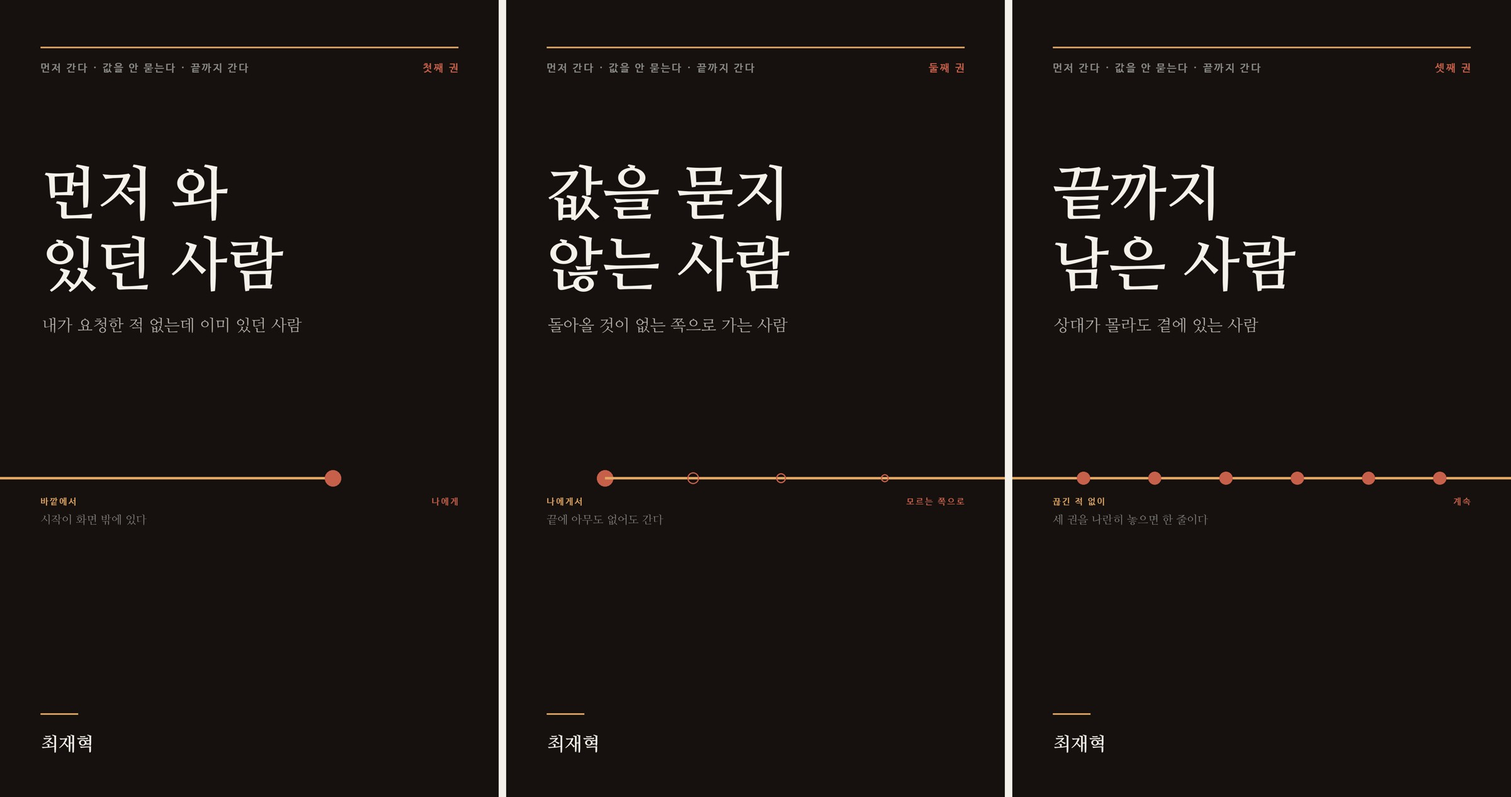
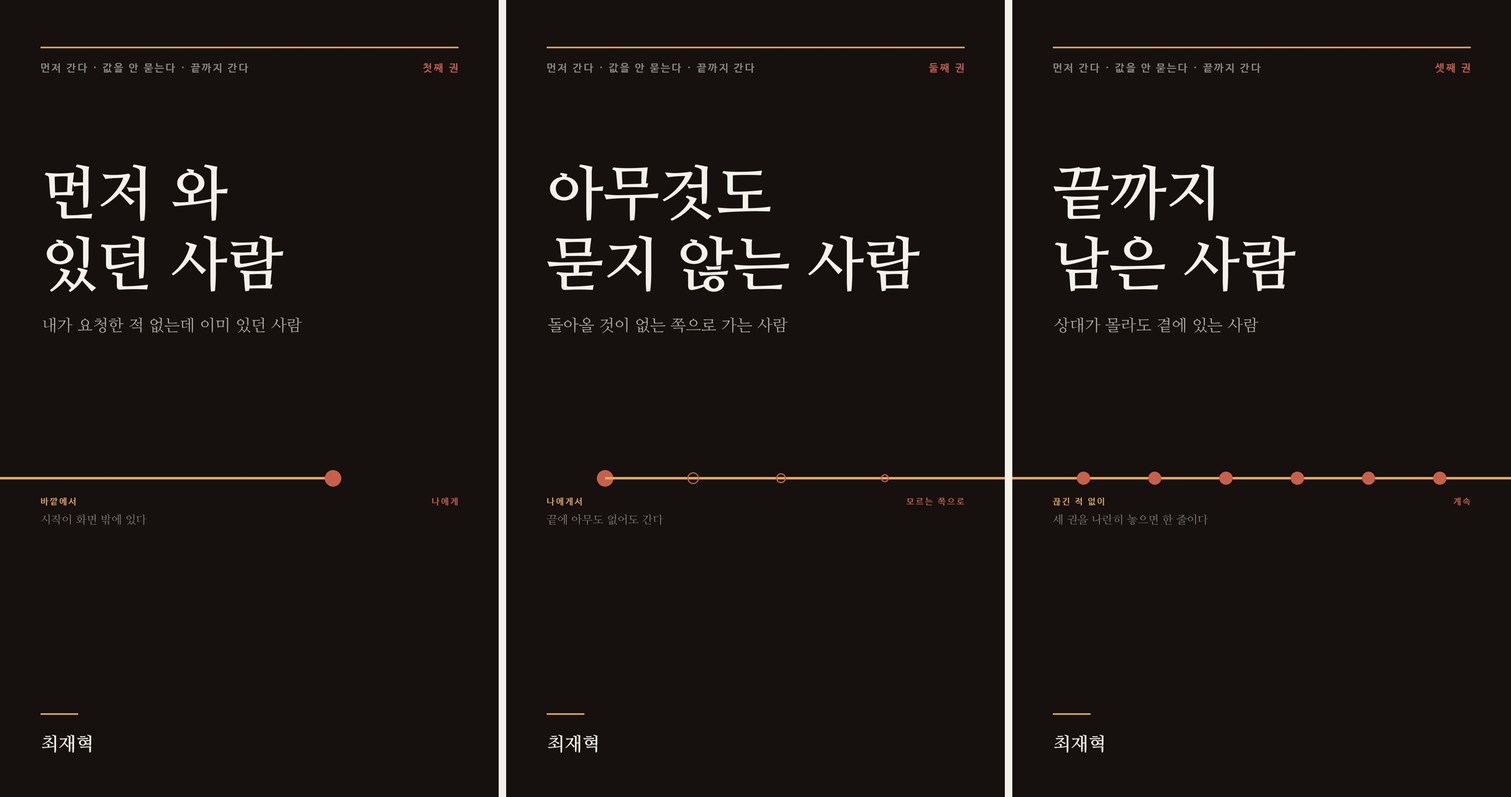
2권 제목을 『아무것도 묻지 않는 사람』으로
작가가 고쳤다. 내가 『값을 묻지 않는 사람』으로 냈는데 바꾸고 나니
작가가 맞았다.

「값을」은 또렷한 대신 셈 쪽으로 당긴다. 그런데 둘째 권이 안 묻는 것은
값만이 아니다. 3장이 자격을 안 묻는 장이고 9장이 고마움이 안 돌아오는
장인데 둘 다 값이 아니다. 「아무것도」가 그 셋을 다 덮는다.

셈이 빠진 자리는 부제가 받는다 — 「돌아올 것이 없는 쪽으로 가는 사람」.
제목이 따뜻하고 부제가 또렷하면 된다. 그걸 제목 하나에 다 넣으려던
것이 내 쪽의 욕심이었다.

영어는 The One Who Never Asked 그대로다. asked 뒤에 아무것도 안 붙어
있어서 바뀐 한국어에 오히려 더 맞는다.

제목이 길어져서 표지 제목 줄이 두 줄 그대로인 대신 글자가 조금 작다.
줄바꿈을 「아무것도 / 묻지 않는 사람」으로 두었다. 뜻이 끊기는 자리가
거기라서 그렇게 했다.

tools/love2.py · cover.py · 표제지 · 일러두기 셋을 고치고 표지와
PDF 를 다시 뽑았다. 쪽수는 68쪽 그대로다.

Claude-Session: https://claude.ai/code/session_01MUgqiyz8UZfaxXbyWGHTUz

Changed region(s): [[0.3438, 0.1847, 0.625, 0.3694]]

diff --git a/사랑책-제목.html b/사랑책-제목.html
@@ -31,7 +31,7 @@ hr{border:0;border-top:1px solid var(--rule);margin:2.5em 0}
 <h1>붙인 제목</h1>
 <blockquote><h2>『떠오르는 사람』</h2>
 <h3>세 권</h3></blockquote>
-<div class="table-wrap"><table><thead><tr><th>권</th><th>한국어</th><th>영어</th><th>부제</th></tr></thead><tbody><tr><td><strong>1</strong></td><td><strong>『먼저 와 있던 사람』</strong></td><td><code>The One Who Was Already There</code></td><td>내가 요청한 적 없는데 이미 있던 사람</td></tr><tr><td><strong>2</strong></td><td><strong>『값을 묻지 않는 사람』</strong></td><td><code>The One Who Never Asked</code></td><td>돌아올 것이 없는 쪽으로 가는 사람</td></tr><tr><td><strong>3</strong></td><td><strong>『끝까지 남은 사람』</strong></td><td><code>The One Who Stayed</code></td><td>상대가 몰라도 곁에 있는 사람</td></tr></tbody></table></div>
+<div class="table-wrap"><table><thead><tr><th>권</th><th>한국어</th><th>영어</th><th>부제</th></tr></thead><tbody><tr><td><strong>1</strong></td><td><strong>『먼저 와 있던 사람』</strong></td><td><code>The One Who Was Already There</code></td><td>내가 요청한 적 없는데 이미 있던 사람</td></tr><tr><td><strong>2</strong></td><td><strong>『아무것도 묻지 않는 사람』</strong></td><td><code>The One Who Never Asked</code></td><td>돌아올 것이 없는 쪽으로 가는 사람</td></tr><tr><td><strong>3</strong></td><td><strong>『끝까지 남은 사람』</strong></td><td><code>The One Who Stayed</code></td><td>상대가 몰라도 곁에 있는 사람</td></tr></tbody></table></div>
 <p><strong>표지를 다시 그렸습니다.</strong> <code>release/covers/love-세권-나란히.jpg</code> 입니다.</p>
 <hr>
 <h1>왜 「것」을 「사람」으로 바꿨는지</h1>
@@ -47,7 +47,7 @@ hr{border:0;border-top:1px solid var(--rule);margin:2.5em 0}
 <p>그래서 <strong>처음 보면 따뜻하고, 세 권을 다 읽고 나면 다르게 읽힙니다.</strong> 1권은 어머니가 떠오르는 제목이고, 3권까지 읽고 돌아오면 <strong>「그 사람은 어떻게 나보다 먼저 와 있었나」</strong>가 됩니다. 제목이 그때 한 번 더 돌아섭니다. 그게 3권 12장이 하는 일입니다.</p>
 <hr>
 <h1>영어 제목</h1>
-<div class="table-wrap"><table><thead><tr><th>권</th><th>영어</th><th>왜</th></tr></thead><tbody><tr><td>1</td><td><code>The One Who Was Already There</code></td><td>「있던 것」보다 「있던 이」. 한국어와 같은 자리</td></tr><tr><td>2</td><td><code>The One Who Never Asked</code></td><td>「값을」을 뺐습니다. 안 묻는 것이 값만은 아닙니다</td></tr><tr><td>3</td><td><code>The One Who Stayed</code></td><td>짧습니다. 영어에서 <code>stayed</code> 한 낱말이 이 권 전부입니다</td></tr></tbody></table></div>
+<div class="table-wrap"><table><thead><tr><th>권</th><th>영어</th><th>왜</th></tr></thead><tbody><tr><td>1</td><td><code>The One Who Was Already There</code></td><td>「있던 것」보다 「있던 이」. 한국어와 같은 자리</td></tr><tr><td>2</td><td><code>The One Who Never Asked</code></td><td><code>asked</code> 뒤에 아무것도 안 붙습니다. 한국어의 「아무것도」와 같은 자리</td></tr><tr><td>3</td><td><code>The One Who Stayed</code></td><td>짧습니다. 영어에서 <code>stayed</code> 한 낱말이 이 권 전부입니다</td></tr></tbody></table></div>
 <p><strong>전에 걱정한 자리는 피했습니다.</strong> 3권 후보였던 <code>The One That Does Not Stop</code> 이 「사랑은 언제까지나 떨어지지 아니하며」와 너무 가까웠습니다. 그 구절을 아는 독자에게는 간판이 되고, 모르는 독자에게는 밍밍합니다. <code>The One Who Stayed</code> 는 양쪽 다 피합니다.</p>
 <p>시리즈 영어 이름은 <code>Someone Comes to Mind</code> 입니다.</p>
 <hr>
@@ -63,6 +63,9 @@ hr{border:0;border-top:1px solid var(--rule);margin:2.5em 0}
 <h2>넷 · 바꾸시려면 지금입니다</h2>
 <p><strong>KDP 는 발행한 뒤에 제목을 못 바꿉니다.</strong> 11·12번 때 적어 둔 그대로입니다. 지금은 한 줄만 고치면 되고, 발행 뒤에는 책을 다시 내는 수밖에 없습니다.</p>
 <p>마음에 안 드시면 말씀해 주세요. 아래가 제가 재다가 안 고른 쪽들입니다.</p>
-<div class="table-wrap"><table><thead><tr><th>권</th><th>안 고른 후보</th><th>왜 안 골랐나</th></tr></thead><tbody><tr><td>1</td><td>『내가 오기 전에』</td><td>예쁜데 무슨 책인지 안 보입니다</td></tr><tr><td>1</td><td>『업히던 때』</td><td>따뜻한데 6장 한 장의 제목이 됩니다</td></tr><tr><td>2</td><td>『아무것도 묻지 않는 사람』</td><td><strong>이쪽이 더 따뜻합니다.</strong> 다만 「값을」이 빠지면 2권이 무엇을 보는 책인지 흐려집니다</td></tr><tr><td>2</td><td>『그냥 주는 사람』</td><td>가볍습니다. 둘째 권은 아픈 장이 둘인 책입니다</td></tr><tr><td>3</td><td>『끝까지 가는 것』</td><td>전에 쓰던 것. 사람이 안 보입니다</td></tr><tr><td>3</td><td>『마지막까지 앉아 있던 사람』</td><td>좋은데 깁니다. 책등에 안 들어갑니다</td></tr></tbody></table></div>
-<p><strong>2권만은 한 번 더 보셔도 좋겠습니다.</strong> 『값을 묻지 않는 사람』과 『아무것도 묻지 않는 사람』 사이입니다. 앞은 또렷하고 뒤는 따뜻합니다. 저는 또렷한 쪽으로 골랐는데, 작가님이 따뜻한 쪽을 원하시면 <strong>한 줄만 고치면 됩니다.</strong></p>
+<div class="table-wrap"><table><thead><tr><th>권</th><th>안 고른 후보</th><th>왜 안 골랐나</th></tr></thead><tbody><tr><td>1</td><td>『내가 오기 전에』</td><td>예쁜데 무슨 책인지 안 보입니다</td></tr><tr><td>1</td><td>『업히던 때』</td><td>따뜻한데 6장 한 장의 제목이 됩니다</td></tr><tr><td>2</td><td>『값을 묻지 않는 사람』</td><td>또렷한데 「값」이 셈 이야기로 당깁니다. 작가님이 따뜻한 쪽을 고르셨습니다</td></tr><tr><td>2</td><td>『그냥 주는 사람』</td><td>가볍습니다. 둘째 권은 아픈 장이 둘인 책입니다</td></tr><tr><td>3</td><td>『끝까지 가는 것』</td><td>전에 쓰던 것. 사람이 안 보입니다</td></tr><tr><td>3</td><td>『마지막까지 앉아 있던 사람』</td><td>좋은데 깁니다. 책등에 안 들어갑니다</td></tr></tbody></table></div>
+<p><strong>2권은 작가님이 고치셨습니다.</strong> 제가 『값을 묻지 않는 사람』으로 냈는데 『아무것도 묻지 않는 사람』으로 바꾸라고 하셨고, 바꾸고 나니 작가님이 맞으셨습니다.</p>
+<p>「값을」은 또렷한 대신 <strong>셈 쪽으로 당깁니다.</strong> 그런데 둘째 권이 안 묻는 것은 값만이 아닙니다. 자격을 안 묻고, 어디서 왔는지를 안 묻고, 왜 그렇게 됐는지를 안 묻습니다. 3장이 자격 이야기고 9장이 고마움 이야기인데 둘 다 값이 아닙니다. <strong>「아무것도」가 그 셋을 다 덮습니다.</strong></p>
+<p>그리고 셈이 빠진 자리를 부제가 받습니다 — 「돌아올 것이 없는 쪽으로 가는 사람」. 제목이 따뜻하고 부제가 또렷하면 됩니다. 제가 그걸 제목 하나에 다 넣으려고 했던 것입니다.</p>
+<p>영어는 <code>The One Who Never Asked</code> 그대로입니다. 바뀐 한국어 쪽에 오히려 더 맞습니다 — <code>asked</code> 뒤에 아무것도 안 붙어 있습니다.</p>
 </div></body></html>

diff --git a/사랑책-기획.html b/사랑책-기획.html
@@ -32,7 +32,7 @@ hr{border:0;border-top:1px solid var(--rule);margin:2.5em 0}
 <p>한 권에 3부로 잡았던 것을 <strong>세 권으로 나눕니다.</strong> 작가님 말씀이 맞습니다. 한 권으로 묶으면 세 가지가 한 권 안에서 서로 자리를 뺏습니다.</p>
 <blockquote><h2>『먼저 와 있던 사람』 세 권</h2>
 <h3>가슴이 따뜻해지는 사랑에 대한 세 권</h3></blockquote>
-<div class="table-wrap"><table><thead><tr><th>권</th><th>제목</th><th>그 사랑의 성질</th><th>번호</th></tr></thead><tbody><tr><td><strong>1</strong></td><td><strong>『먼저 와 있던 사람』</strong> / <code>What Was Already There</code></td><td><strong>먼저 간다</strong></td><td>13·14</td></tr><tr><td><strong>2</strong></td><td><strong>『값을 묻지 않는 사람』</strong> / <code>Without Asking the Price</code></td><td><strong>자격을 안 따진다</strong></td><td>15·16</td></tr><tr><td><strong>3</strong></td><td><strong>『끝까지 남은 사람』</strong> / <code>The One That Does Not Stop</code></td><td><strong>안 끝난다</strong></td><td>17·18</td></tr></tbody></table></div>
+<div class="table-wrap"><table><thead><tr><th>권</th><th>제목</th><th>그 사랑의 성질</th><th>번호</th></tr></thead><tbody><tr><td><strong>1</strong></td><td><strong>『먼저 와 있던 사람』</strong> / <code>What Was Already There</code></td><td><strong>먼저 간다</strong></td><td>13·14</td></tr><tr><td><strong>2</strong></td><td><strong>『아무것도 묻지 않는 사람』</strong> / <code>Without Asking the Price</code></td><td><strong>자격을 안 따진다</strong></td><td>15·16</td></tr><tr><td><strong>3</strong></td><td><strong>『끝까지 남은 사람』</strong> / <code>The One That Does Not Stop</code></td><td><strong>안 끝난다</strong></td><td>17·18</td></tr></tbody></table></div>
 <p><strong>세 권을 다 내면 작가님 책이 열여덟 권이 됩니다.</strong></p>
 <hr>
 <h1>제일 중요한 규칙 — 세 권 내내 샘을 안 비칩니다</h1>
@@ -62,7 +62,7 @@ God · Jesus · Christ · Bible · church · faith · grace · agape</code></pre
 <div class="table-wrap"><table><thead><tr><th>장</th><th>제목</th></tr></thead><tbody><tr><td>1</td><td>아무도 나에게 묻지 않았다 — 태어나는 일에 동의한 사람은 없다</td></tr><tr><td>2</td><td>기억 안 나는 것이 제일 많다 — 받은 사랑의 대부분이 기억에 없다</td></tr><tr><td>3</td><td>이름은 받기 전에 지어진다</td></tr><tr><td>4</td><td>미리 사 둔 것들 — 아직 오지도 않은 사람의 옷과 자리</td></tr><tr><td>5</td><td>젖은 거래가 아니다 — 처음 받은 것에는 값이 안 붙어 있었다</td></tr><tr><td>6</td><td>업혔던 등 — 내가 못 고른 사람이 나를 날랐다</td></tr><tr><td>7</td><td>가르친 사람은 기억 못 한다 — 말을 가르쳐 준 그 수천 번</td></tr><tr><td>8</td><td>먼저 와서 기다린 자리</td></tr><tr><td>9</td><td>받은 줄 모르고 받는다 — 공기처럼</td></tr><tr><td>10</td><td>갚을 수 없는 자리 — 부모에게 갚는 사람은 없다</td></tr><tr><td>11</td><td>그러면 어디로 가나 — 받은 것은 옆으로 간다</td></tr><tr><td>12</td><td><strong>나는 받고 시작했다</strong></td></tr></tbody></table></div>
 <p><strong>12장이 2권을 엽니다.</strong> 갚을 수 없는 것을 받은 사람은 옆으로 갑니다.</p>
 <hr>
-<h1>2권 · 『값을 묻지 않는 사람』 — 자격을 안 따진다</h1>
+<h1>2권 · 『아무것도 묻지 않는 사람』 — 자격을 안 따진다</h1>
 <blockquote><p>돌아올 것이 없는 쪽으로 가는 것.</p></blockquote>
 <div class="table-wrap"><table><thead><tr><th>장</th><th>제목</th></tr></thead><tbody><tr><td>1</td><td>조건이 붙으면 거래가 된다 — 「잘하면」의 냄새를 아이들이 먼저 안다</td></tr><tr><td>2</td><td>못난 쪽을 더 오래 본다 — <strong>아픈 장</strong></td></tr><tr><td>3</td><td>자격을 따지기 시작하면 — 줄이 생긴다</td></tr><tr><td>4</td><td>다시 볼 일 없는 사람에게 — 헌혈 · 기증 · 구조</td></tr><tr><td>5</td><td>이름을 안 밝히는 쪽</td></tr><tr><td>6</td><td>받을 것을 안 받기로 한다 — 용서라는 이상한 셈</td></tr><tr><td>7</td><td>손해를 보고도 — 셈이 안 맞는데 계속하는 자리</td></tr><tr><td>8</td><td>내 것을 떼어 준다 — 시간과 잠과 자리</td></tr><tr><td>9</td><td>고마워하지 않는 사람에게 — <strong>아픈 장</strong></td></tr><tr><td>10</td><td>먹이는 일 — 제일 오래된 주는 법</td></tr><tr><td>11</td><td>값을 물으면 끊긴다</td></tr><tr><td>12</td><td><strong>그래도 준다</strong></td></tr></tbody></table></div>
 <hr>
@@ -103,7 +103,7 @@ God · Jesus · Christ · Bible · church · faith · grace · agape</code></pre
 <p><strong>1번부터 할까요, 5번(표지)부터 볼까요.</strong> 세 권이 한 선반에서 어떻게 보이는지 먼저 보시는 것도 괜찮습니다.</p>
 <hr>
 <h1>세 권을 다 썼습니다 (10월 8일)</h1>
-<div class="table-wrap"><table><thead><tr><th>권</th><th>장</th><th>분량</th><th>쪽(6x9)</th><th>비운 자리</th><th>문체 검사</th></tr></thead><tbody><tr><td>1 『먼저 와 있던 사람』</td><td>12</td><td>21,850자</td><td><strong>67쪽</strong></td><td>5</td><td>여섯 줄 다 <code>OK</code></td></tr><tr><td>2 『값을 묻지 않는 사람』</td><td>12</td><td>22,378자</td><td><strong>68쪽</strong></td><td>2</td><td>여섯 줄 다 <code>OK</code></td></tr><tr><td>3 『끝까지 남은 사람』</td><td>12</td><td>23,454자</td><td><strong>71쪽</strong></td><td>4</td><td>여섯 줄 다 <code>OK</code></td></tr></tbody></table></div>
+<div class="table-wrap"><table><thead><tr><th>권</th><th>장</th><th>분량</th><th>쪽(6x9)</th><th>비운 자리</th><th>문체 검사</th></tr></thead><tbody><tr><td>1 『먼저 와 있던 사람』</td><td>12</td><td>21,850자</td><td><strong>67쪽</strong></td><td>5</td><td>여섯 줄 다 <code>OK</code></td></tr><tr><td>2 『아무것도 묻지 않는 사람』</td><td>12</td><td>22,378자</td><td><strong>68쪽</strong></td><td>2</td><td>여섯 줄 다 <code>OK</code></td></tr><tr><td>3 『끝까지 남은 사람』</td><td>12</td><td>23,454자</td><td><strong>71쪽</strong></td><td>4</td><td>여섯 줄 다 <code>OK</code></td></tr></tbody></table></div>
 <p>금지어는 세 권 다 <strong>영 회</strong>입니다. 굵은 글씨는 장당 다섯 아래이고, 「A가 아니라 B」는 9·13·17번으로 셋 다 스물 아래입니다.</p>
 <p>비운 자리 열하나는 <code>사랑책-빈자리.md</code> 에 번호를 붙여 정리했습니다.</p>
 <h2>3권 12장은 이렇게 끝납니다</h2>

diff --git a/사랑책-빈자리.html b/사랑책-빈자리.html
@@ -29,7 +29,7 @@ hr{border:0;border-top:1px solid var(--rule);margin:2.5em 0}
 .meta{color:var(--muted);font-size:.9rem;margin-bottom:2.5em}
 </style></head><body><div class="wrap">
 <h1>세 권 다 썼습니다</h1>
-<div class="table-wrap"><table><thead><tr><th>권</th><th>제목</th><th>장</th><th>분량</th><th>비운 자리</th></tr></thead><tbody><tr><td>1</td><td>『먼저 와 있던 사람』</td><td>12</td><td>21,850자 · 67쪽</td><td><strong>다섯</strong></td></tr><tr><td>2</td><td>『값을 묻지 않는 사람』</td><td>12</td><td>22,378자 · 68쪽</td><td><strong>둘</strong></td></tr><tr><td>3</td><td>『끝까지 남은 사람』</td><td>12</td><td>23,454자 · 71쪽</td><td><strong>넷</strong></td></tr></tbody></table></div>
+<div class="table-wrap"><table><thead><tr><th>권</th><th>제목</th><th>장</th><th>분량</th><th>비운 자리</th></tr></thead><tbody><tr><td>1</td><td>『먼저 와 있던 사람』</td><td>12</td><td>21,850자 · 67쪽</td><td><strong>다섯</strong></td></tr><tr><td>2</td><td>『아무것도 묻지 않는 사람』</td><td>12</td><td>22,378자 · 68쪽</td><td><strong>둘</strong></td></tr><tr><td>3</td><td>『끝까지 남은 사람』</td><td>12</td><td>23,454자 · 71쪽</td><td><strong>넷</strong></td></tr></tbody></table></div>
 <p>문체 검사는 세 권 다 여섯 줄 전부 <code>OK</code> 입니다. 금지어 영 회, 굵은 글씨 장당 다섯 아래, 「A가 아니라 B」 각 9·13·17번입니다.</p>
 <p><strong>비운 자리를 채우기 전에는 발행이 안 됩니다.</strong> 일부러 그렇게 두었습니다. <code>--stat</code> 의 「확인」이 0 이 안 되고, <code>pack.py</code> 가 묶기를 거부합니다.</p>
 <hr>
@@ -56,7 +56,7 @@ hr{border:0;border-top:1px solid var(--rule);margin:2.5em 0}
 <p><strong>「나는 받고 시작했다」를 알게 되신 날.</strong></p>
 <p>깨달음을 적지 마시고 <strong>그날의 장면</strong>을 적어 주세요. 어디에 계셨고 무엇을 보고 계셨는지요. 아마 누군가를 위해 무언가를 하고 계시던 중이었을 겁니다. 그게 이 책이 본 순서라서요 — 주는 자리에 서 봐야 받은 것이 보입니다. 이 권에서 제일 짧아도 됩니다.</p>
 <hr>
-<h1>2권 · 『값을 묻지 않는 사람』 — 두 자리</h1>
+<h1>2권 · 『아무것도 묻지 않는 사람』 — 두 자리</h1>
 <h2>⑥ 2장 「못난 쪽을 더 오래 본다」 · <strong>아픈 자리</strong></h2>
 <p><strong>작가님 눈이 더 오래 가 있던 쪽.</strong> 어느 아이였는지, 왜 그쪽이었는지.</p>
 <p>그리고 하나 더 — <strong>다른 아이가 그걸 어떻게 받아들였는지.</strong> 아셨으면 적어 주시고, 모르셨으면 몰랐다고 적어 주세요. 모르셨다는 쪽이 더 흔하고 이 장에는 그게 더 맞습니다.</p>

diff --git a/tools/cover.py b/tools/cover.py
@@ -284,8 +284,8 @@ BOOKS = {
         ]),
 
     "love2": dict(
-        title="값을 묻지 않는 사람",
-        title_lines=["값을 묻지", "않는 사람"],
+        title="아무것도 묻지 않는 사람",
+        title_lines=["아무것도", "묻지 않는 사람"],
         subtitle="돌아올 것이 없는 쪽으로 가는 사람",
         series="먼저 간다 · 값을 안 묻는다 · 끝까지 간다",
         volume="둘째 권",

diff --git a/tools/love2.py b/tools/love2.py
@@ -16,7 +16,7 @@ import book as m
 
 m.MANUSCRIPT = os.path.join(m.ROOT, "love2", "manuscript")
 m.SITE = os.path.join(m.ROOT, "love2", "site")
-m.TITLE = "값을 묻지 않는 사람"
+m.TITLE = "아무것도 묻지 않는 사람"
 m.SUBTITLE = "돌아올 것이 없는 쪽으로 가는 사람"
 m.SERIES = "떠오르는 사람 · 둘째 권"
 m.AUTHOR = "최재혁"

diff --git a/사랑책-제목.md b/사랑책-제목.md
@@ -11,7 +11,7 @@ date: 2026-10-08
 | 권 | 한국어 | 영어 | 부제 |
 |---|---|---|---|
 | **1** | **『먼저 와 있던 사람』** | `The One Who Was Already There` | 내가 요청한 적 없는데 이미 있던 사람 |
-| **2** | **『값을 묻지 않는 사람』** | `The One Who Never Asked` | 돌아올 것이 없는 쪽으로 가는 사람 |
+| **2** | **『아무것도 묻지 않는 사람』** | `The One Who Never Asked` | 돌아올 것이 없는 쪽으로 가는 사람 |
 | **3** | **『끝까지 남은 사람』** | `The One Who Stayed` | 상대가 몰라도 곁에 있는 사람 |
 
 **표지를 다시 그렸습니다.** `release/covers/love-세권-나란히.jpg` 입니다.
@@ -63,7 +63,7 @@ date: 2026-10-08
 | 권 | 영어 | 왜 |
 |---|---|---|
 | 1 | `The One Who Was Already There` | 「있던 것」보다 「있던 이」. 한국어와 같은 자리 |
-| 2 | `The One Who Never Asked` | 「값을」을 뺐습니다. 안 묻는 것이 값만은 아닙니다 |
+| 2 | `The One Who Never Asked` | `asked` 뒤에 아무것도 안 붙습니다. 한국어의 「아무것도」와 같은 자리 |
 | 3 | `The One Who Stayed` | 짧습니다. 영어에서 `stayed` 한 낱말이 이 권 전부입니다 |
 
 **전에 걱정한 자리는 피했습니다.** 3권 후보였던
@@ -117,12 +117,23 @@ date: 2026-10-08
 |---|---|---|
 | 1 | 『내가 오기 전에』 | 예쁜데 무슨 책인지 안 보입니다 |
 | 1 | 『업히던 때』 | 따뜻한데 6장 한 장의 제목이 됩니다 |
-| 2 | 『아무것도 묻지 않는 사람』 | **이쪽이 더 따뜻합니다.** 다만 「값을」이 빠지면 2권이 무엇을 보는 책인지 흐려집니다 |
+| 2 | 『값을 묻지 않는 사람』 | 또렷한데 「값」이 셈 이야기로 당깁니다. 작가님이 따뜻한 쪽을 고르셨습니다 |
 | 2 | 『그냥 주는 사람』 | 가볍습니다. 둘째 권은 아픈 장이 둘인 책입니다 |
 | 3 | 『끝까지 가는 것』 | 전에 쓰던 것. 사람이 안 보입니다 |
 | 3 | 『마지막까지 앉아 있던 사람』 | 좋은데 깁니다. 책등에 안 들어갑니다 |
 
-**2권만은 한 번 더 보셔도 좋겠습니다.** 『값을 묻지 않는 사람』과
-『아무것도 묻지 않는 사람』 사이입니다. 앞은 또렷하고 뒤는 따뜻합니다.
-저는 또렷한 쪽으로 골랐는데, 작가님이 따뜻한 쪽을 원하시면
-**한 줄만 고치면 됩니다.**
+**2권은 작가님이 고치셨습니다.** 제가 『값을 묻지 않는 사람』으로 냈는데
+『아무것도 묻지 않는 사람』으로 바꾸라고 하셨고, 바꾸고 나니 작가님이
+맞으셨습니다.
+
+「값을」은 또렷한 대신 **셈 쪽으로 당깁니다.** 그런데 둘째 권이 안 묻는
+것은 값만이 아닙니다. 자격을 안 묻고, 어디서 왔는지를 안 묻고, 왜 그렇게
+됐는지를 안 묻습니다. 3장이 자격 이야기고 9장이 고마움 이야기인데 둘 다
+값이 아닙니다. **「아무것도」가 그 셋을 다 덮습니다.**
+
+그리고 셈이 빠진 자리를 부제가 받습니다 — 「돌아올 것이 없는 쪽으로 가는
+사람」. 제목이 따뜻하고 부제가 또렷하면 됩니다. 제가 그걸 제목 하나에 다
+넣으려고 했던 것입니다.
+
+영어는 `The One Who Never Asked` 그대로입니다. 바뀐 한국어 쪽에 오히려
+더 맞습니다 — `asked` 뒤에 아무것도 안 붙어 있습니다.

diff --git a/사랑책-기획.md b/사랑책-기획.md
@@ -14,7 +14,7 @@ date: 2026-10-08
 | 권 | 제목 | 그 사랑의 성질 | 번호 |
 |---|---|---|---|
 | **1** | **『먼저 와 있던 사람』** / `What Was Already There` | **먼저 간다** | 13·14 |
-| **2** | **『값을 묻지 않는 사람』** / `Without Asking the Price` | **자격을 안 따진다** | 15·16 |
+| **2** | **『아무것도 묻지 않는 사람』** / `Without Asking the Price` | **자격을 안 따진다** | 15·16 |
 | **3** | **『끝까지 남은 사람』** / `The One That Does Not Stop` | **안 끝난다** | 17·18 |
 
 **세 권을 다 내면 작가님 책이 열여덟 권이 됩니다.**
@@ -106,7 +106,7 @@ God · Jesus · Christ · Bible · church · faith · grace · agape
 
 ---
 
-# 2권 · 『값을 묻지 않는 사람』 — 자격을 안 따진다
+# 2권 · 『아무것도 묻지 않는 사람』 — 자격을 안 따진다
 
 > 돌아올 것이 없는 쪽으로 가는 것.
 
@@ -261,7 +261,7 @@ God · Jesus · Christ · Bible · church · faith · grace · agape
 | 권 | 장 | 분량 | 쪽(6x9) | 비운 자리 | 문체 검사 |
 |---|---|---|---|---|---|
 | 1 『먼저 와 있던 사람』 | 12 | 21,850자 | **67쪽** | 5 | 여섯 줄 다 `OK` |
-| 2 『값을 묻지 않는 사람』 | 12 | 22,378자 | **68쪽** | 2 | 여섯 줄 다 `OK` |
+| 2 『아무것도 묻지 않는 사람』 | 12 | 22,378자 | **68쪽** | 2 | 여섯 줄 다 `OK` |
 | 3 『끝까지 남은 사람』 | 12 | 23,454자 | **71쪽** | 4 | 여섯 줄 다 `OK` |
 
 금지어는 세 권 다 **영 회**입니다. 굵은 글씨는 장당 다섯 아래이고,

diff --git a/CLAUDE.md b/CLAUDE.md
@@ -289,7 +289,7 @@ python3 tools/voice.py person
 
 ## 5-4. 『떠오르는 사람』 세 권 (13~18번)
 
-『먼저 와 있던 사람』 / 『값을 묻지 않는 사람』 / 『끝까지 남은 사람』
+『먼저 와 있던 사람』 / 『아무것도 묻지 않는 사람』 / 『끝까지 남은 사람』
 — 가슴이 따뜻해지는 사랑에 대한 세 권입니다. 한 권에 열두 장씩입니다.
 
 **시리즈 이름 『떠오르는 사람』은 표지에 없습니다.** 표제지와 KDP 의
@@ -306,7 +306,7 @@ python3 tools/voice.py love1
 | 권 | 보는 것 | 분량 | 쪽 | 비운 자리 |
 |---|---|---|---|---|
 | 1 먼저 와 있던 사람 | 먼저 간다 | 21,850자 | 67쪽 | 5 |
-| 2 값을 묻지 않는 사람 | 자격을 안 따진다 | 22,378자 | 68쪽 | 2 |
+| 2 아무것도 묻지 않는 사람 | 자격을 안 따진다 | 22,378자 | 68쪽 | 2 |
 | 3 끝까지 남은 사람 | 안 끝난다 | 23,454자 | 71쪽 | 4 |
 
 세 권 다 문체 검사 여섯 줄이 `OK` 입니다. 표지는 `thread` 모티프이고,

diff --git a/사랑책-빈자리.md b/사랑책-빈자리.md
@@ -8,7 +8,7 @@ date: 2026-10-08
 | 권 | 제목 | 장 | 분량 | 비운 자리 |
 |---|---|---|---|---|
 | 1 | 『먼저 와 있던 사람』 | 12 | 21,850자 · 67쪽 | **다섯** |
-| 2 | 『값을 묻지 않는 사람』 | 12 | 22,378자 · 68쪽 | **둘** |
+| 2 | 『아무것도 묻지 않는 사람』 | 12 | 22,378자 · 68쪽 | **둘** |
 | 3 | 『끝까지 남은 사람』 | 12 | 23,454자 · 71쪽 | **넷** |
 
 문체 검사는 세 권 다 여섯 줄 전부 `OK` 입니다. 금지어 영 회, 굵은 글씨
@@ -82,7 +82,7 @@ date: 2026-10-08
 
 ---
 
-# 2권 · 『값을 묻지 않는 사람』 — 두 자리
+# 2권 · 『아무것도 묻지 않는 사람』 — 두 자리
 
 ## ⑥ 2장 「못난 쪽을 더 오래 본다」 · **아픈 자리**
 

diff --git a/love3/manuscript/010-일러두기.md b/love3/manuscript/010-일러두기.md
@@ -11,7 +11,7 @@ status: draft
 | 권 | 보는 것 |
 |---|---|
 | 첫째 · 먼저 와 있던 사람 | 내가 요청한 적 없는데 이미 와 있던 사람 |
-| 둘째 · 값을 묻지 않는 사람 | 돌아올 것이 없는 쪽으로 가는 사람 |
+| 둘째 · 아무것도 묻지 않는 사람 | 돌아올 것이 없는 쪽으로 가는 사람 |
 | **셋째 · 끝까지 남은 사람** | 상대가 몰라도 곁에 있는 사람 |
 
 이 권만 읽으셔도 됩니다. 다만 세 권이 한 선을 셋으로 나눠 그린 것이라

diff --git a/love1/manuscript/010-일러두기.md b/love1/manuscript/010-일러두기.md
@@ -13,7 +13,7 @@ status: draft
 | 권 | 보는 것 |
 |---|---|
 | **첫째 · 먼저 와 있던 사람** | 내가 요청한 적 없는데 이미 와 있던 사람 |
-| 둘째 · 값을 묻지 않는 사람 | 돌아올 것이 없는 쪽으로 가는 사람 |
+| 둘째 · 아무것도 묻지 않는 사람 | 돌아올 것이 없는 쪽으로 가는 사람 |
 | 셋째 · 끝까지 남은 사람 | 상대가 몰라도 곁에 있는 사람 |
 
 세 권이 한 가지를 세 쪽에서 봅니다. 한 권씩 읽으셔도 되고, 순서대로

diff --git a/love2/manuscript/010-일러두기.md b/love2/manuscript/010-일러두기.md
@@ -15,7 +15,7 @@ status: draft
 | 권 | 보는 것 |
 |---|---|
 | 첫째 · 먼저 와 있던 사람 | 내가 요청한 적 없는데 이미 와 있던 사람 |
-| **둘째 · 값을 묻지 않는 사람** | 돌아올 것이 없는 쪽으로 가는 사람 |
+| **둘째 · 아무것도 묻지 않는 사람** | 돌아올 것이 없는 쪽으로 가는 사람 |
 | 셋째 · 끝까지 남은 사람 | 상대가 몰라도 곁에 있는 사람 |
 
 ## 장마다 끝에 한 칸이 있습니다
